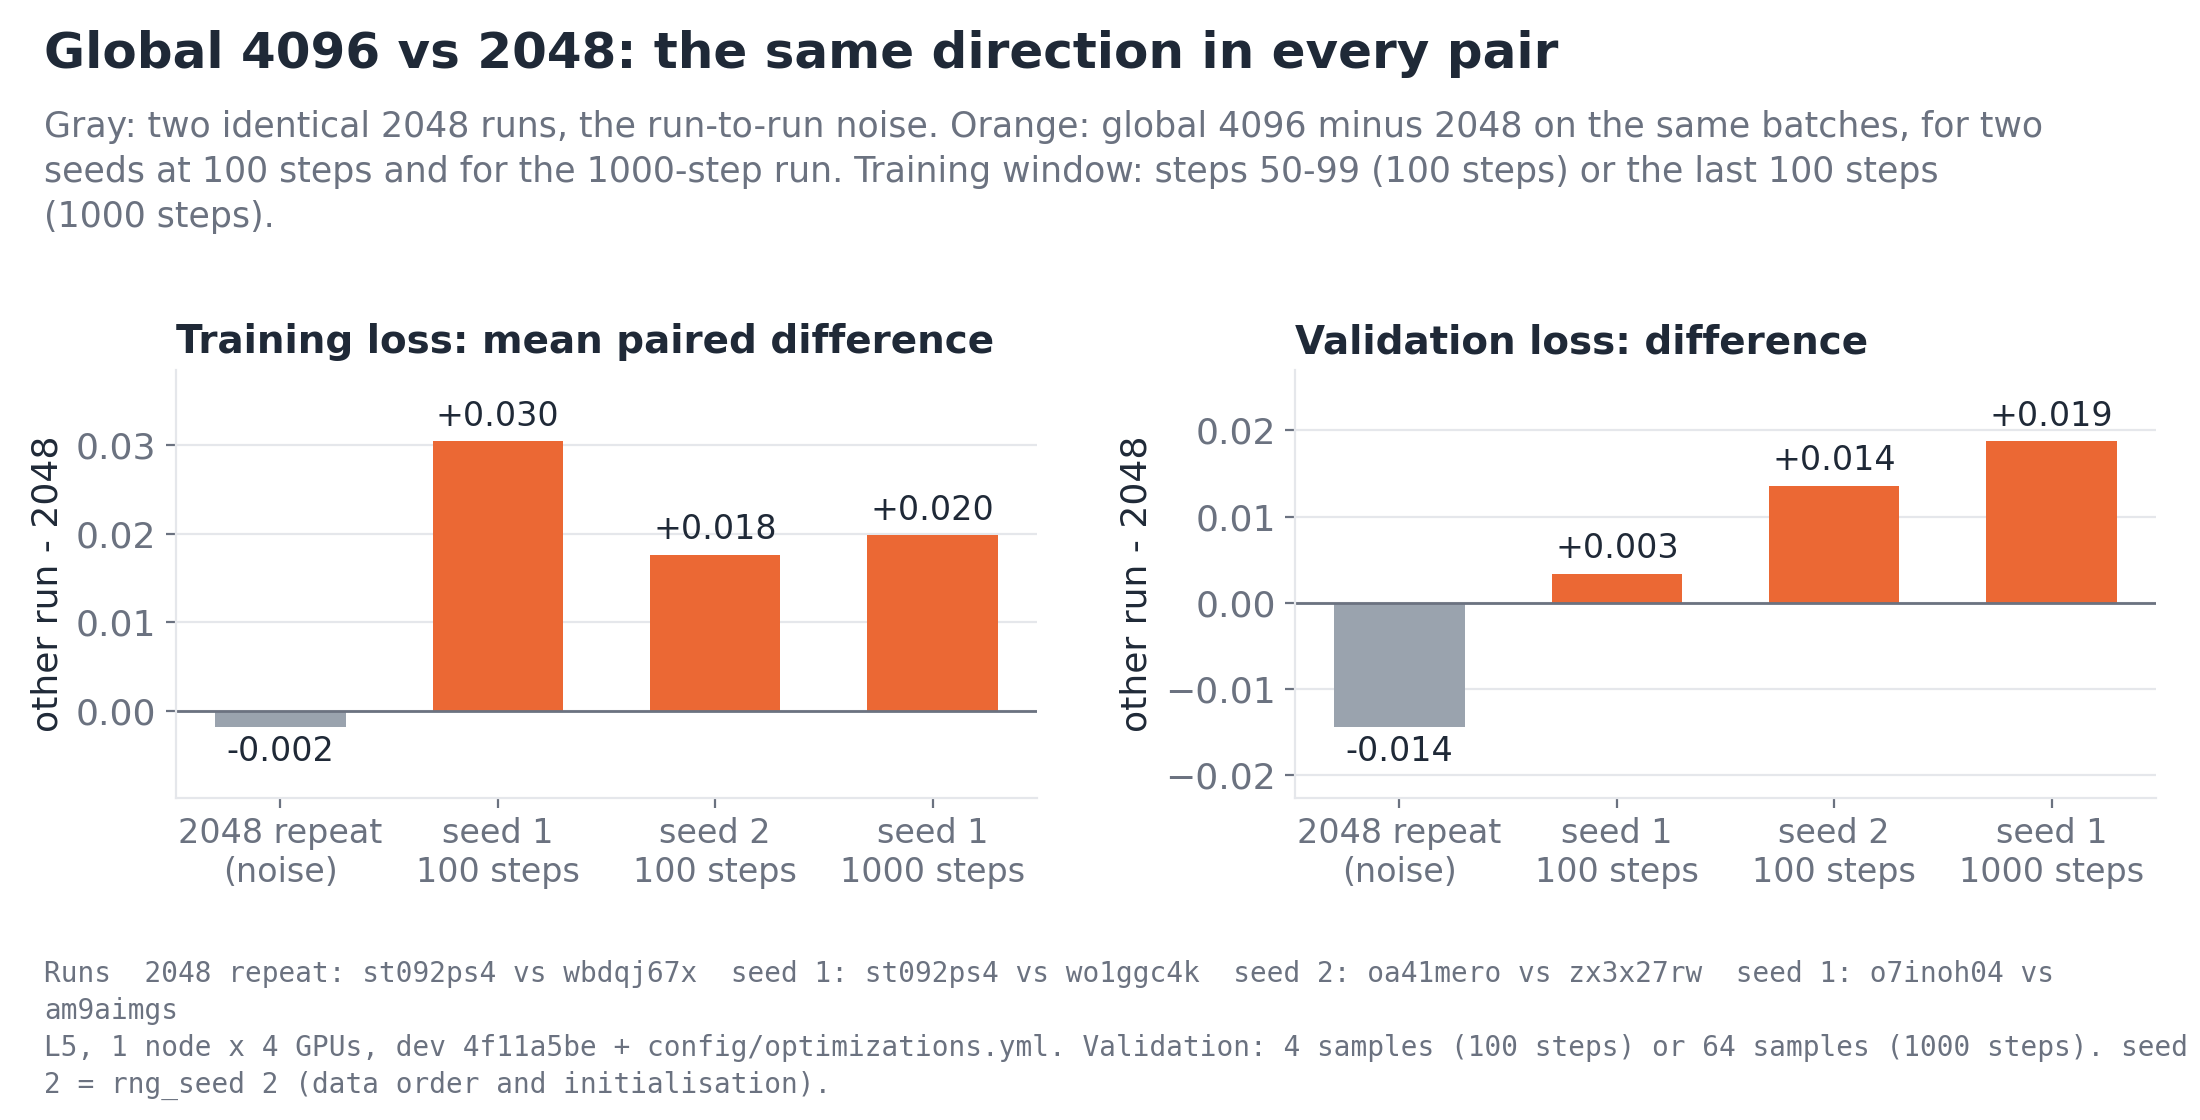
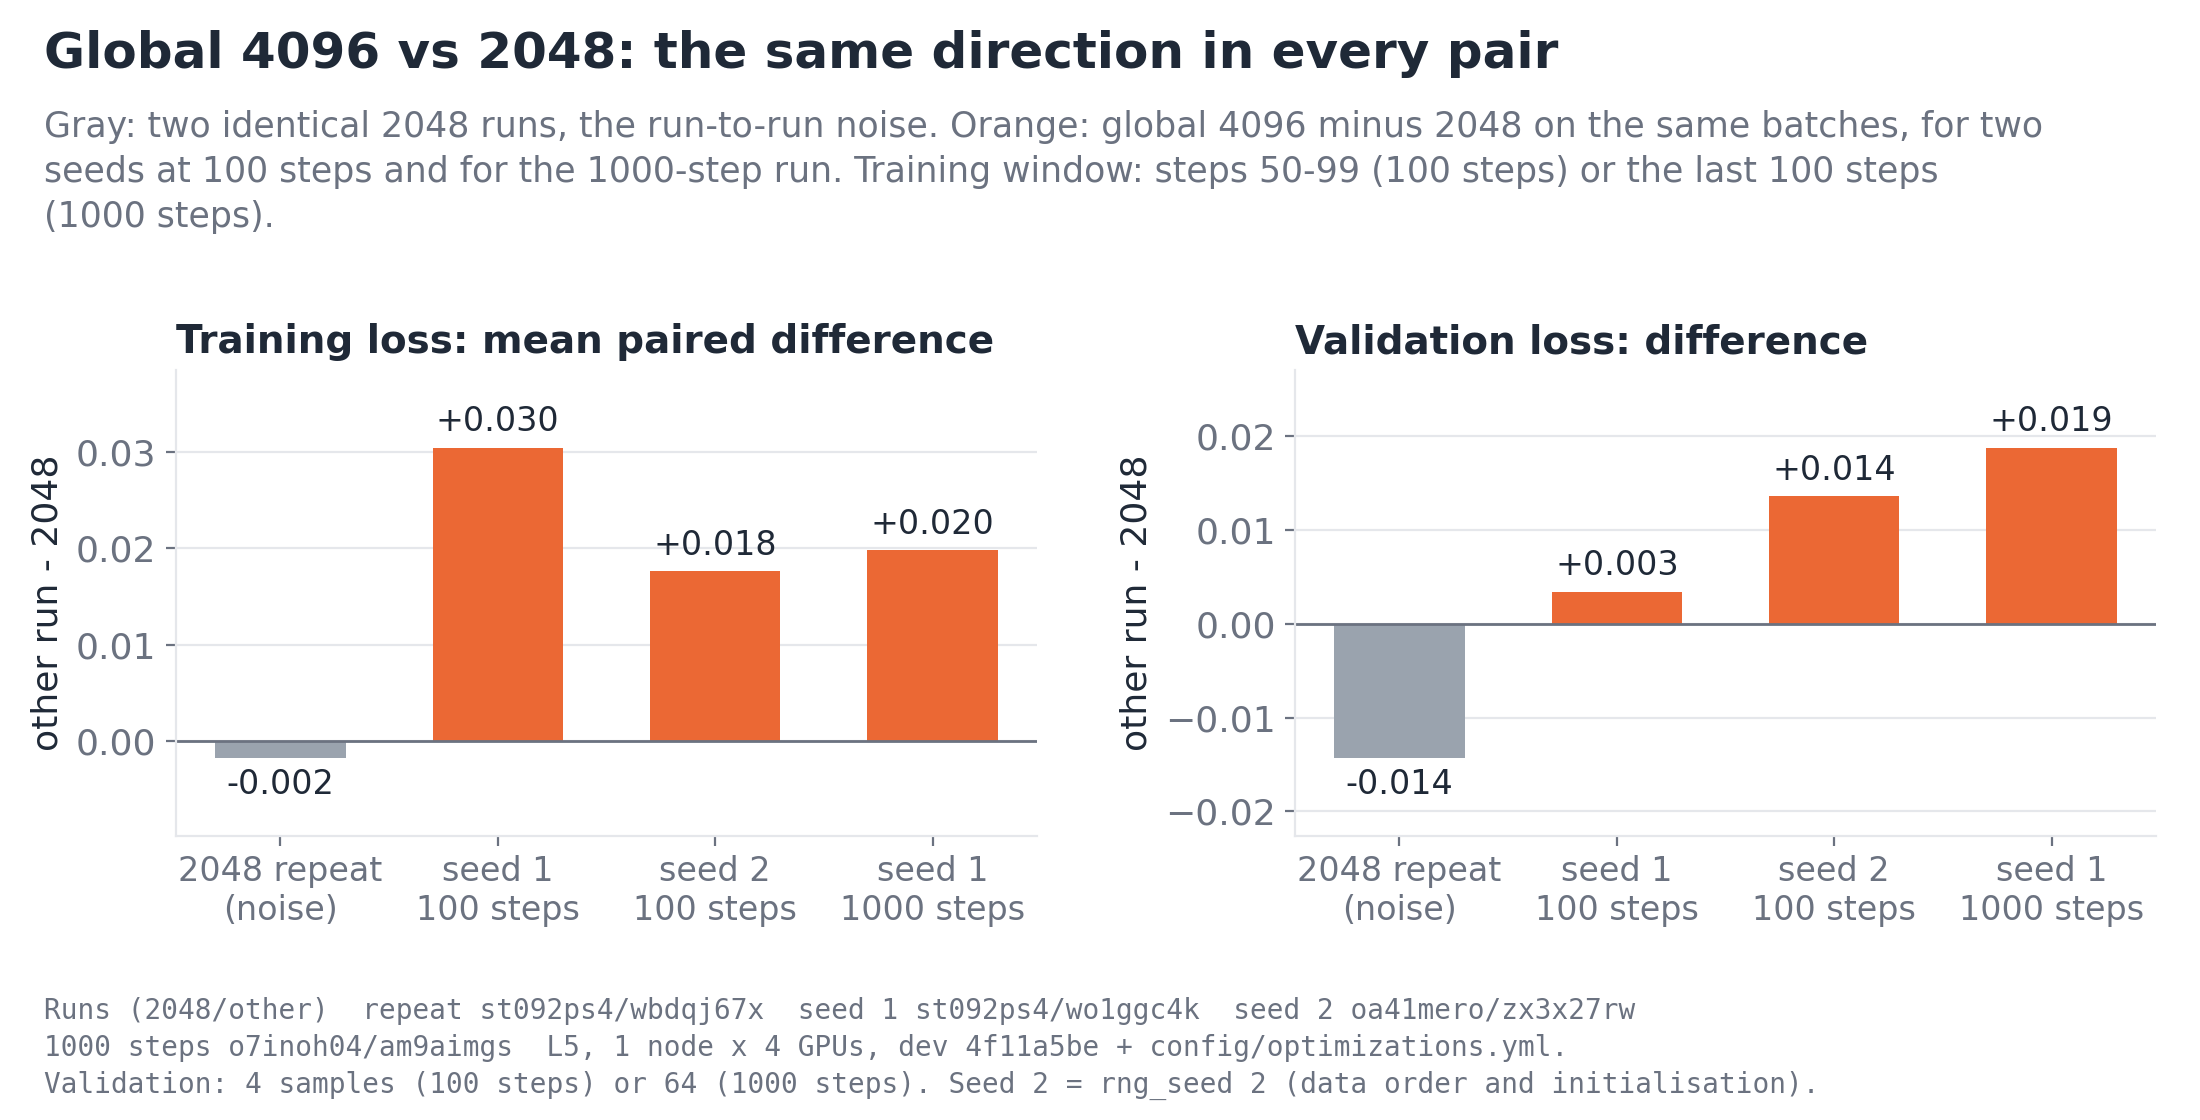
Keep the run ids of the seed figure on their own lines

diff --git a/scripts/plot_latent_long.py b/scripts/plot_latent_long.py
@@ -234,15 +234,16 @@ def plot_seeds(runs, numbers):
                                                     "train_window": list(w), "train_diff": t,
                                                     "val_diff": v}
                         for (label, x, y, w, _), t, v in zip(rows, train, val, strict=True)}
-    ids = "  ".join(f"{label.split(chr(10))[0]}: {runs[x]['run']} vs {runs[y]['run']}"
-                    for label, x, y, *_ in rows)
+    short = {"base2048": "repeat", "seed2b2048": "seed 2", "long2048": "1000 steps"}
+    ids = [f"{'seed 1' if y == 'global4096' else short[x]} {runs[x]['run']}/{runs[y]['run']}"
+           for _, x, y, *_ in rows]
     finish(fig, "latent_seeds", "Global 4096 vs 2048: the same direction in every pair",
            "Gray: two identical 2048 runs, the run-to-run noise. Orange: global 4096 minus 2048 on "
            "the same batches, for two seeds at 100 steps and for the 1000-step run. Training "
            "window: steps 50-99 (100 steps) or the last 100 steps (1000 steps).",
-           f"Runs  {ids}\nL5, 1 node x 4 GPUs, dev 4f11a5be + config/optimizations.yml. Validation: "
-           "4 samples (100 steps) or 64 samples (1000 steps). seed 2 = rng_seed 2 (data order and "
-           "initialisation).", wspace=0.3)
+           f"Runs (2048/other)  {'  '.join(ids[:3])}\n{'  '.join(ids[3:])}  L5, 1 node x 4 GPUs, "
+           "dev 4f11a5be + config/optimizations.yml.\nValidation: 4 samples (100 steps) or 64 "
+           "(1000 steps). Seed 2 = rng_seed 2 (data order and initialisation).", wspace=0.3)
 
 
 def main():
